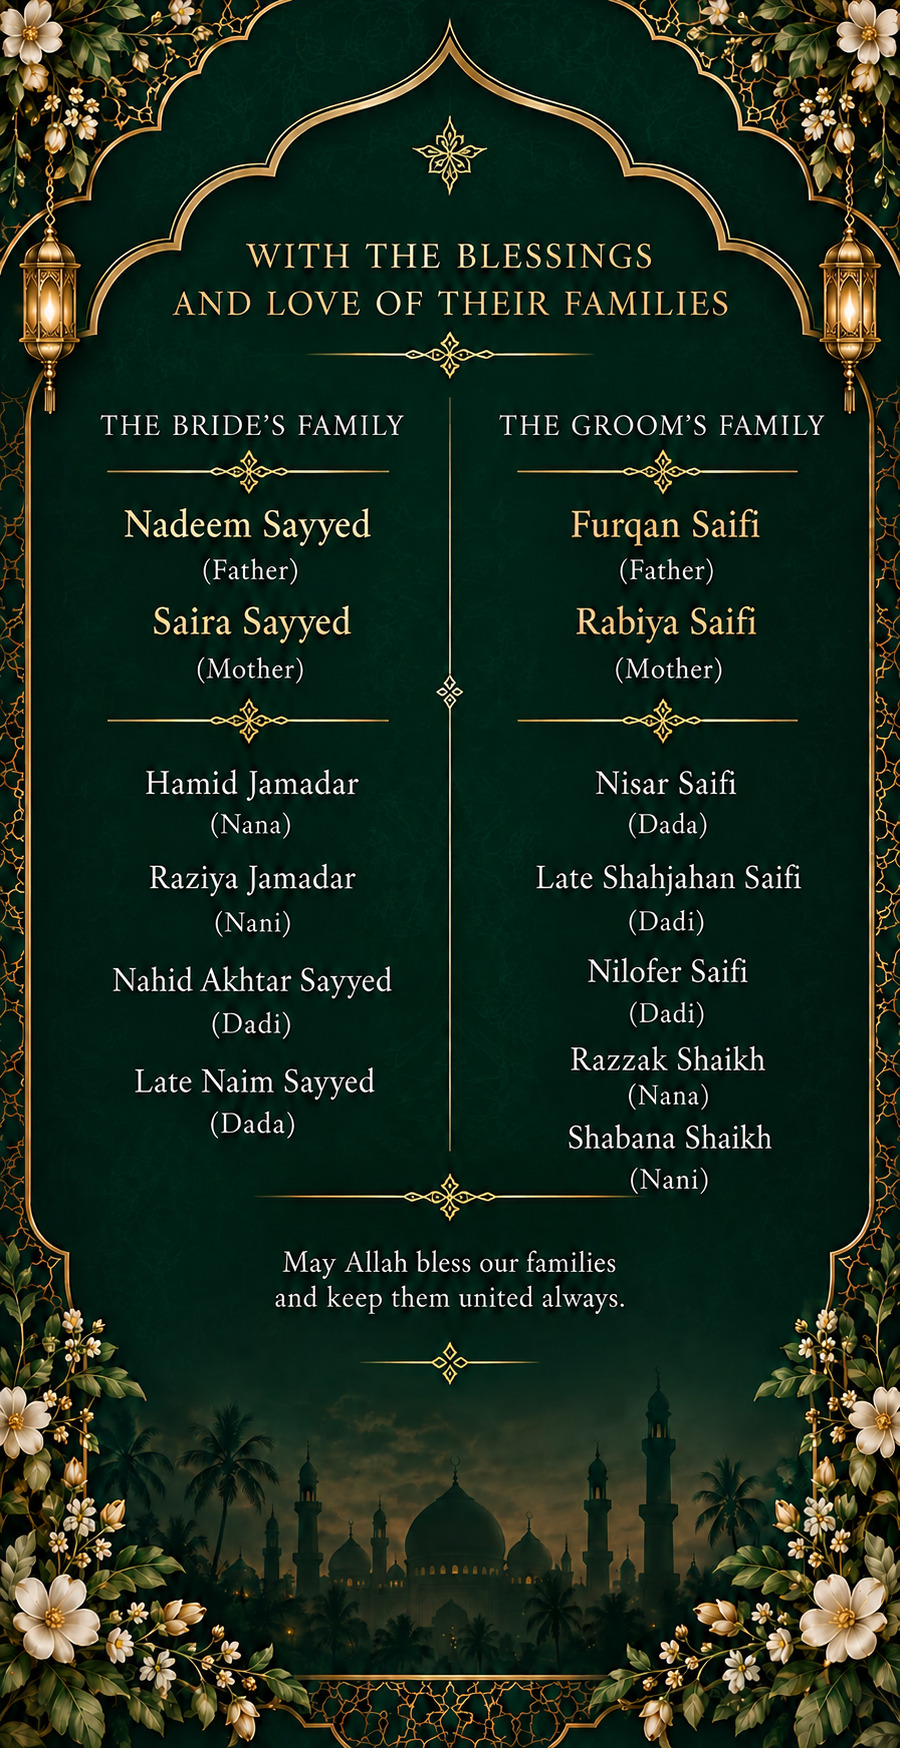
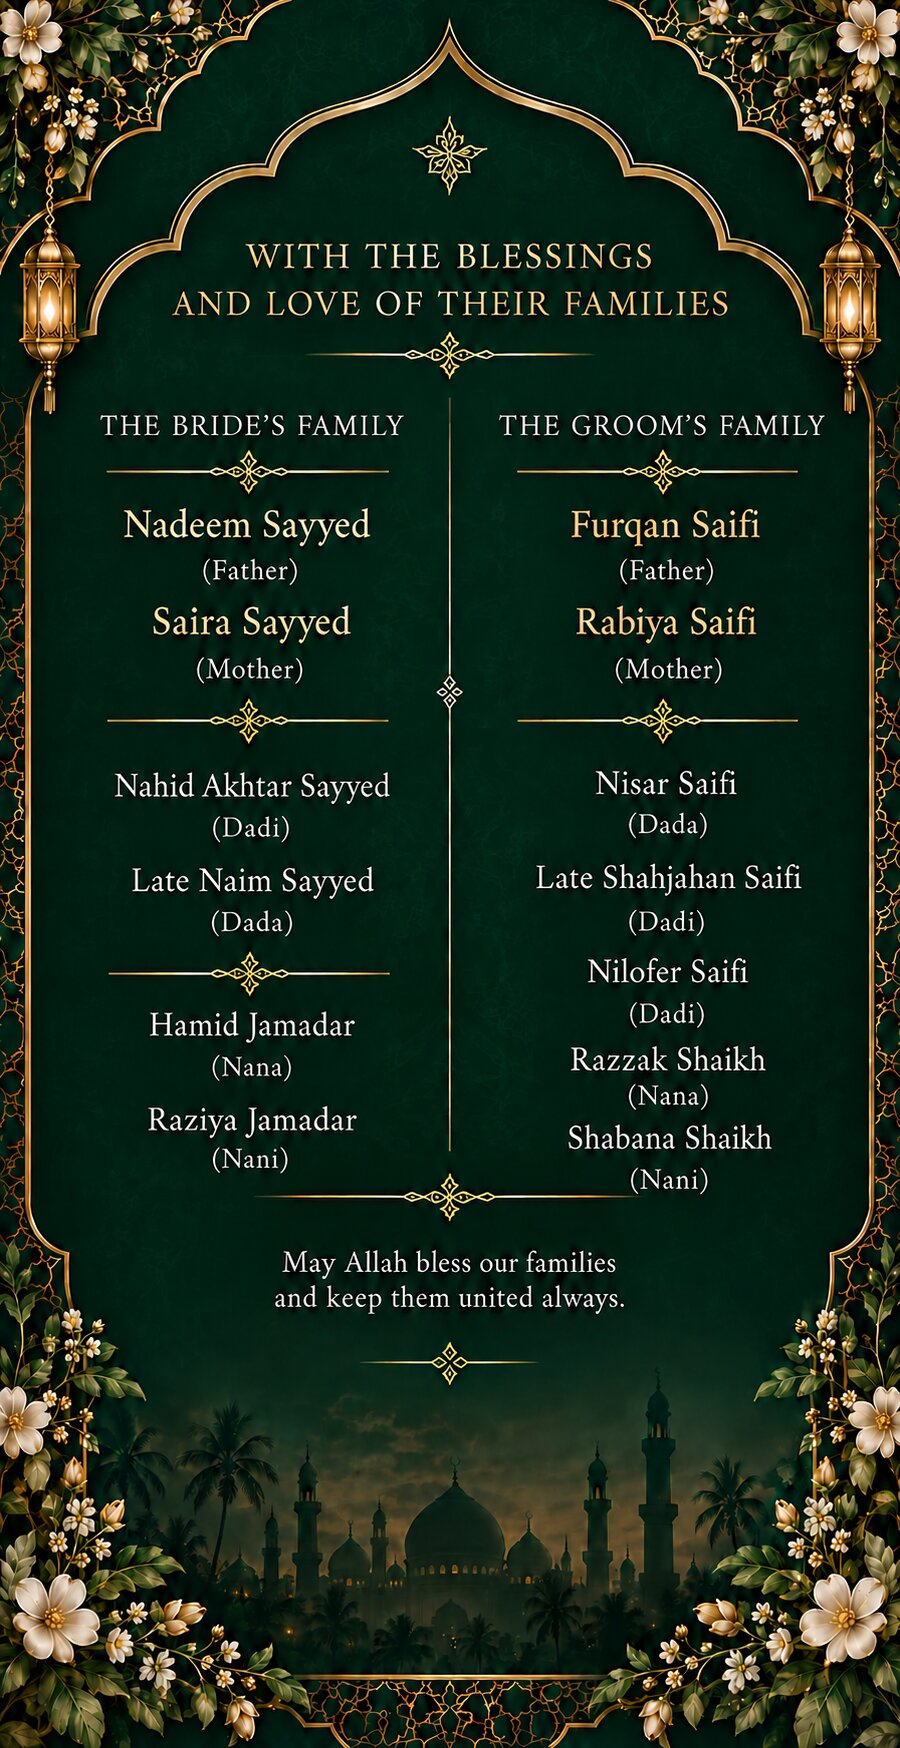
Updated Hall Adresss

diff --git a/components/Invitation.tsx b/components/Invitation.tsx
@@ -2,7 +2,7 @@
  
 import { useEffect, useMemo, useRef, useState } from 'react';
  
-const mapsUrl = 'https://www.google.com/maps/place/Raza+hall/@19.061649,72.9148915,1066m/data=!3m1!1e3!4m6!3m5!1s0x3be7c7d956555e75:0x735251cffa68dbaf!8m2!3d19.06094!4d72.91452!16s%2Fg%2F11rnk6cxgz?entry=ttu&g_ep=EgoyMDI2MDkxNi4wIKXMDSoASAFQAw%3D%3D';
+const mapsUrl = 'https://www.google.com/maps/place/Welcome+Hall/@19.0582007,72.9152806,1064m/data=!3m1!1e3!4m6!3m5!1s0x3be7c613a502d7db:0x58025090a24caf7d!8m2!3d19.0582125!4d72.9189531!16s%2Fg%2F11dfwyn33b?entry=ttu&g_ep=EgoyMDI2MDkyMi4wIKXMDSoASAFQAw%3D%3D';
 const targetMs = Date.parse('2026-09-27T19:00:00+05:30');
  
 function buildCalendarDays() {
@@ -458,7 +458,7 @@ export default function Invitation() {
       'BEGIN:VEVENT', 'UID:saniya-hasnain-rukhsati-20260927@invitation.local', 'DTSTAMP:20260101T000000Z',
       'DTSTART;TZID=Asia/Kolkata:20260927T190000',
       'SUMMARY:Rukhsati — Saniya & Hasnain',
-      'LOCATION:Raza Hall, Surey No. 3, P.L., Plot No. 96, PL Lokhande Marg, Gautam Nagar, Govandi West, Mumbai, Maharashtra 400043',
+      'LOCATION:Welcome Hall, Deonar Police Sta Rd, behind Cement factory, Govandi Slums, Bhim Nagar, Govandi East, Mumbai, Maharashtra 400043',
       'DESCRIPTION:Rukhsati of Saniya Nadeem Sayyed & Hasnain Furqan Saifi.',
       'END:VEVENT', 'END:VCALENDAR'
     ].join('\\n');
@@ -543,13 +543,13 @@ export default function Invitation() {
             <section className="venue reveal" id="venue" data-scene="live" style={{ zIndex: 7 }}>
               <div className="venue-inner">
                 <p className="section-label">THE VENUE</p>
-                <h2>RAZA HALL</h2>
+                <h2>Welcome HALL</h2>
                 <div className="venue-copy">
-                  <p>Surey No. 3, P.L., Plot No. 96, PL Lokhande Marg,<br />Gautam Nagar, Govandi West,<br />Mumbai, Maharashtra 400043</p>
+                  <p>Deonar Police Sta Rd, <br/> behind Cement factory, <br/> Govandi Slums, Bhim Nagar,<br/> Govandi East, Mumbai, Maharashtra 400043</p>
                 </div>
-                <div className="landmark"><span>📍 LANDMARK</span><strong>Gautam Nagar Playground</strong></div>
+                <div className="landmark"><span>📍 LANDMARK</span><strong>Opposite Rafiq Pan Shop </strong></div>
                 <div className="map-card">
-                  <iframe title="Map showing Raza Hall, Govandi West, Mumbai" loading="lazy" src="https://www.google.com/maps?q=Raza%20Hall%2C%20Govandi%20West%2C%20Mumbai&output=embed" />
+                  <iframe title="Map showing Welcome Hall, Govandi West, Mumbai" loading="lazy" src={mapsUrl} />
                 </div>
                 <div className="actions">
                   <a className="action-btn outline" target="_blank" rel="noopener noreferrer" href={mapsUrl}>OPEN IN GOOGLE MAPS ↗</a>

diff --git a/app/layout.tsx b/app/layout.tsx
@@ -9,13 +9,13 @@ export const metadata: Metadata = {
   title: 'SANIYA & HASNAIN — Rukhsati',
 
   description:
-    '27 September 2026 • Raza Hall, Govandi West, Mumbai • Rukhsati after Maghrib.',
+    '27 September 2026 • Welcome Hall, Govandi East, Mumbai • Rukhsati after Maghrib.',
 
   openGraph: {
     title: 'SANIYA & HASNAIN — Rukhsati',
 
     description:
-      '27 September 2026 • Raza Hall, Govandi West, Mumbai • Rukhsati after Maghrib.',
+      '27 September 2026 • Welcome Hall, Govandi East, Mumbai • Rukhsati after Maghrib.',
 
     url: SITE_URL,
 
@@ -39,7 +39,7 @@ export const metadata: Metadata = {
     title: 'SANIYA & HASNAIN — Rukhsati',
 
     description:
-      '27 September 2026 • Raza Hall, Govandi West, Mumbai.',
+      '27 September 2026 • Welcome Hall, Govandi East, Mumbai.',
 
     images: [`${SITE_URL}/og-image.jpg`],
   },
